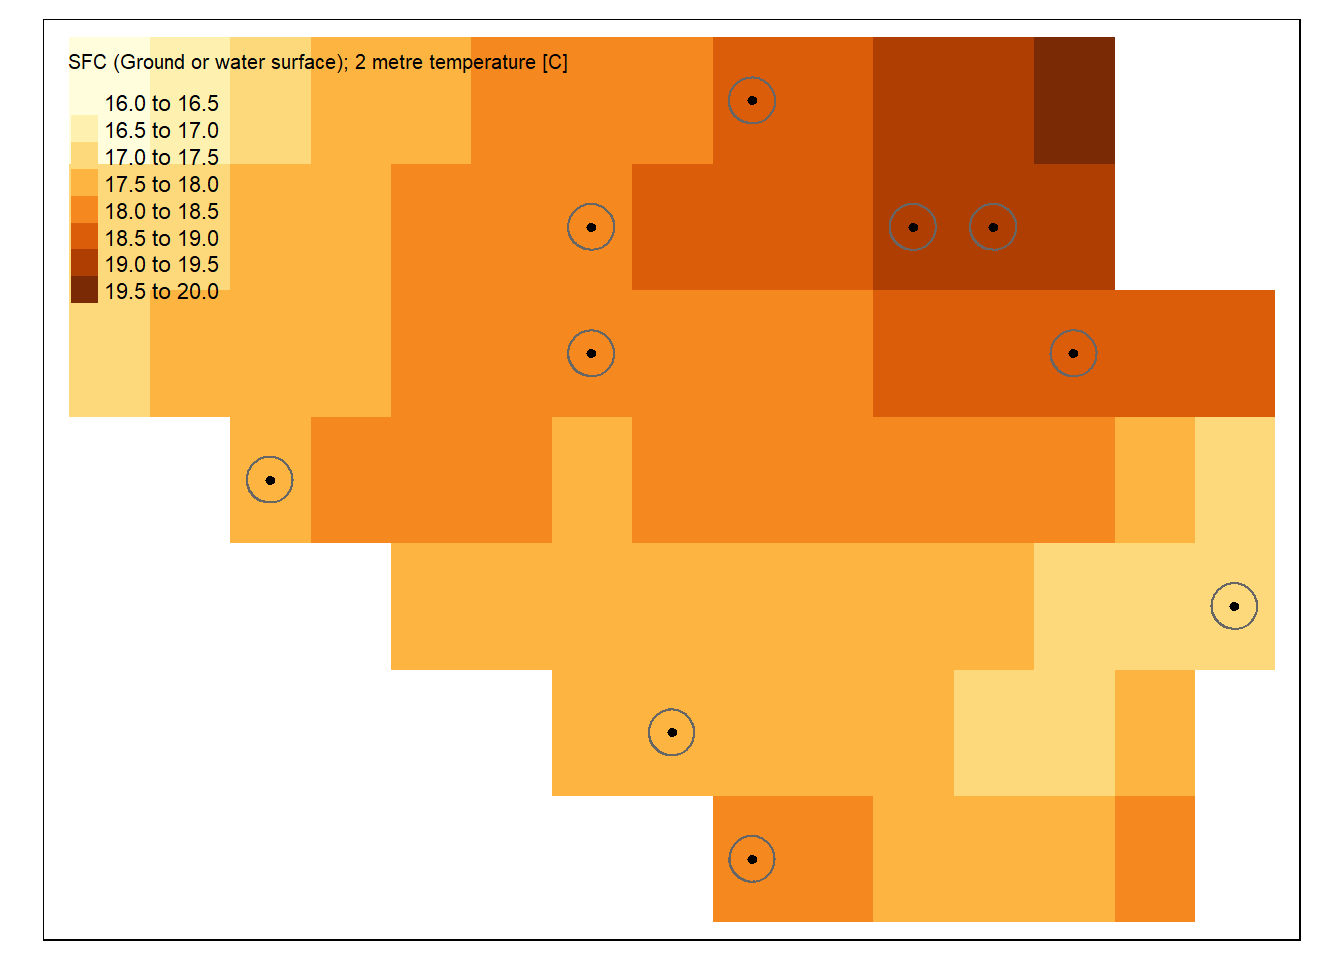
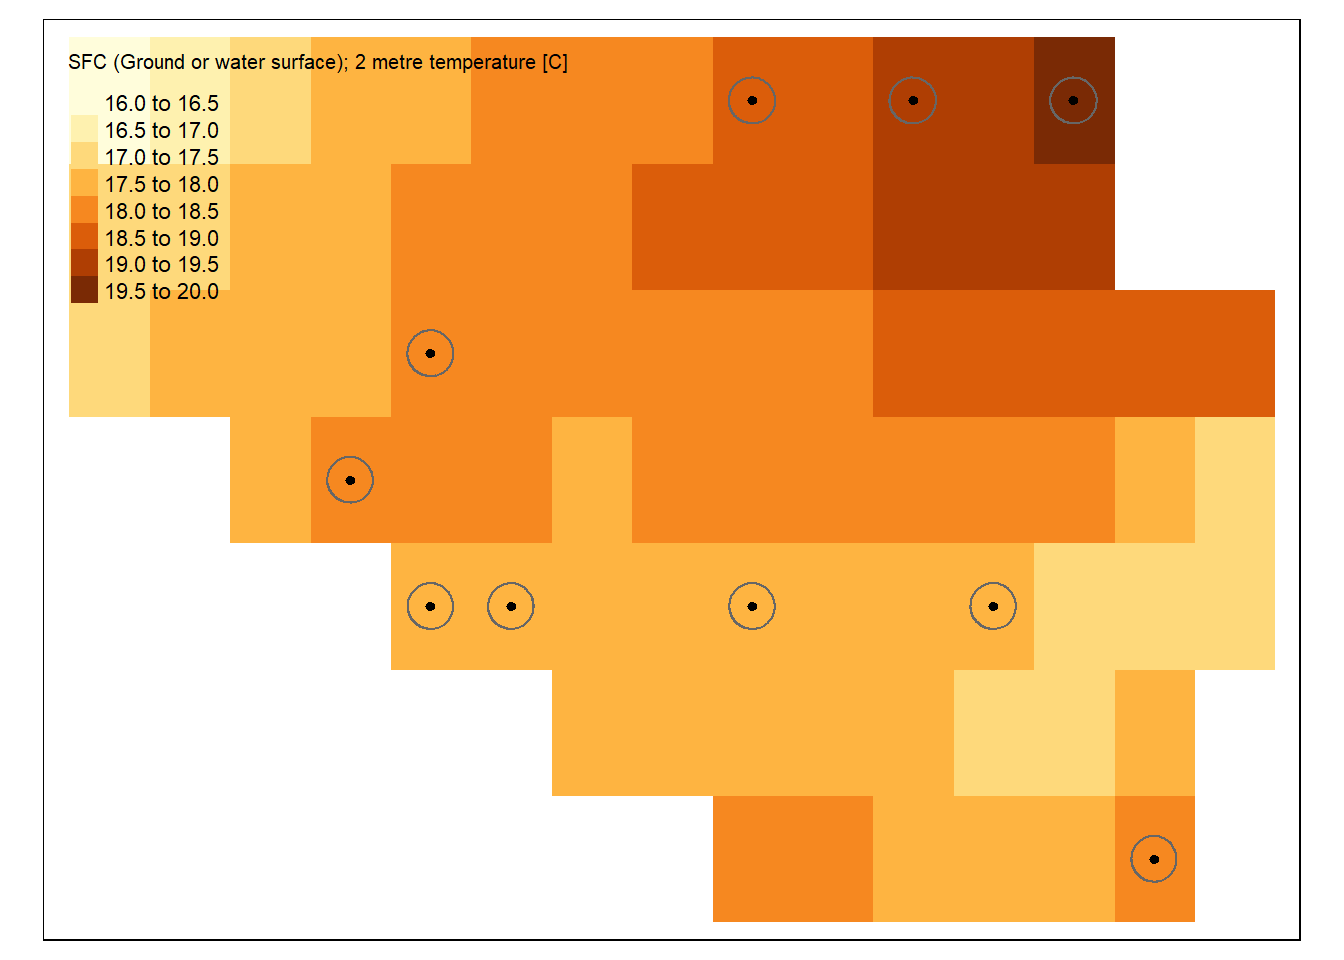
update rendering

diff --git a/docs/index.html b/docs/index.html
@@ -179,7 +179,7 @@ ul.task-list li input[type="checkbox"] {
 Welcome to the project website of “GESIS meets Copernicus” (GxC).
 </p>
 <p>
-For many researchers in the social sciences, Earth observation (EO) data represents a black box. Social science researchers face many obstacles in applying and using these data, resulting from 1) a lack of technical expertise, 2) a lack of knowledge of data sources and how to access them, 3) unfamiliarity with complex data formats, such as high-resolution, longitudinal raster datacubes, and 4) lack of expertise in integrating the data into existing social science datasets. GxC aims to close the gap by creating an automated interface to EO data and complementary resources for social science research.
+For many researchers in the social sciences, Earth observation (EO) data represents a black box. Social science researchers face many obstacles in applying and using these data, resulting from 1) a lack of technical expertise, 2) a lack of knowledge of data sources and how to access them, 3) unfamiliarity with complex data formats, such as high-resolution, longitudinal raster datacubes, and 4) a lack of expertise in integrating the data into existing social science datasets. GxC aims to close the gap by creating an automated interface to EO data and complementary resources for social science research.
 </p>
 </td>
 <td style="width:30%; vertical-align:top;">
@@ -187,7 +187,7 @@ For many researchers in the social sciences, Earth observation (EO) data represe
 </td>
 </tr>
 </tbody></table>
-<p>The project’s core is creating an open-source tool to link time- and space-sensitive social science datasets with data from Earth observation programs. Detailed documentation and beginner-friendly tutorials complement the tool to showcase the capability of our project. The social science community is the main target group of our tool. At the same time, Earth system science researchers may similarly profit from integrated social science data. This project supports inter- and transdisciplinary research which is often made difficult because of technical, disciplinary, and organizational barriers. The project emphasizes research data management (RDM) workflows based on FAIR and Open Data principles. All code is written in the open-source software R and is made available on this website.</p>
+<p>The project’s core is creating an open-source tool to link time- and space-sensitive social science datasets with data from Earth observation programs. Detailed documentation and beginner-friendly tutorials complement the tool to showcase the capability of our project. The social science community is the main target group of our tool. At the same time, Earth system science researchers may similarly profit from integrated social science data. This project supports inter- and transdisciplinary research which is often made difficult because of technical, disciplinary, and organizational barriers. The project emphasizes research data management (RDM) workflows based on FAIR Data and Open Science principles. All code is written in the open-source software R and is made available on this website.</p>
 <p>Below, you will find more information about navigation on this page.</p>
 </section>
 <section id="navigation" class="level2">
@@ -196,6 +196,7 @@ For many researchers in the social sciences, Earth observation (EO) data represe
 <ul>
 <li><strong>Tutorials</strong>: Check out our tutorials and learning material</li>
 <li><strong>Package</strong>: Documentation for the gxc-package</li>
+<li><strong>Courses</strong>: Check out our upcoming and past courses and workshops</li>
 <li><strong>Articles</strong>: Lists published and ongoing research based on GxC</li>
 <li><strong>About</strong>: Information on GESIS, the research team and the project history</li>
 </ul>

diff --git a/docs/raster_data.html b/docs/raster_data.html
@@ -299,8 +299,8 @@ extent      : 0, 4, 0, 4  (xmin, xmax, ymin, ymax)
 coord. ref. :  
 source(s)   : memory
 name        : lyr.1 
-min value   :     5 
-max value   :    93 </code></pre>
+min value   :     1 
+max value   :   100 </code></pre>
 </div>
 </div>
 </section>
@@ -606,16 +606,16 @@ remotes::install_github('r-tmap/tmap')</code></pre>
 <div class="sourceCode cell-code" id="cb26"><pre class="sourceCode r code-with-copy"><code class="sourceCode r"><span id="cb26-1"><a href="#cb26-1" aria-hidden="true" tabindex="-1"></a>terra<span class="sc">::</span><span class="fu">extract</span>(temp_6_2019_belgium, random_points, <span class="at">ID =</span> <span class="cn">FALSE</span>)</span></code><button title="Copy to Clipboard" class="code-copy-button"><i class="bi"></i></button></pre></div>
 <div class="cell-output cell-output-stdout">
 <pre><code>   SFC (Ground or water surface); 2 metre temperature [C]
-1                                                18.34414
-2                                                17.61172
-3                                                17.94180
+1                                                18.03359
+2                                                19.04922
+3                                                17.81094
 4                                                18.66055
-5                                                17.19375
-6                                                18.12148
-7                                                18.82852
-8                                                19.13711
-9                                                19.34609
-10                                               18.19375</code></pre>
+5                                                18.36953
+6                                                17.66836
+7                                                17.68398
+8                                                17.84023
+9                                                19.52969
+10                                               18.04531</code></pre>
 </div>
 </div>
 </section>
@@ -637,19 +637,19 @@ remotes::install_github('r-tmap/tmap')</code></pre>
 <pre><code>Simple feature collection with 10 features and 1 field
 Geometry type: POINT
 Dimension:     XY
-Bounding box:  xmin: 3.25 ymin: 49.75 xmax: 6.25 ymax: 51.25
+Bounding box:  xmin: 3.5 ymin: 49.75 xmax: 6 ymax: 51.25
 Geodetic CRS:  WGS 84
              geometry temp_value
-1     POINT (4.25 51)   18.34414
-2      POINT (4.5 50)   17.61172
-3   POINT (3.25 50.5)   17.94180
+1    POINT (3.5 50.5)   18.03359
+2  POINT (5.25 51.25)   19.04922
+3  POINT (4.75 50.25)   17.81094
 4  POINT (4.75 51.25)   18.66055
-5  POINT (6.25 50.25)   17.19375
-6  POINT (4.75 49.75)   18.12148
-7  POINT (5.75 50.75)   18.82852
-8     POINT (5.25 51)   19.13711
-9      POINT (5.5 51)   19.34609
-10 POINT (4.25 50.75)   18.19375</code></pre>
+5     POINT (6 49.75)   18.36953
+6   POINT (5.5 50.25)   17.66836
+7     POINT (4 50.25)   17.68398
+8  POINT (3.75 50.25)   17.84023
+9  POINT (5.75 51.25)   19.52969
+10 POINT (3.75 50.75)   18.04531</code></pre>
 </div>
 </div>
 </section>
